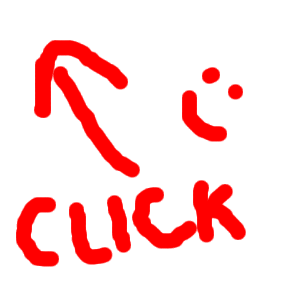
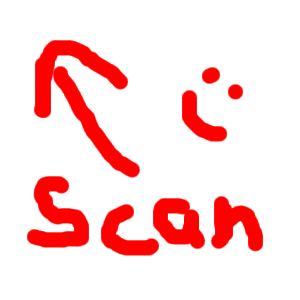
qronly

Changed region(s): [[0.03, 0.57, 0.9, 0.9]]

diff --git a/src/App.tsx b/src/App.tsx
@@ -460,28 +460,30 @@ eas build:configure`}</code>
                 Scan with any UPI App (GPay, PhonePe, Paytm) to support the project!
               </p>
 
-              <div className="bg-white p-4 rounded-2xl mb-6 shadow-inner">
-                <img 
-                  src="https://api.qrserver.com/v1/create-qr-code/?size=200x200&data=upi%3A%2F%2Fpay%3Fpa%3Dpaytm.s36o6vz%40pty%26pn%3DCleanTube%2520Developer%26cu%3DINR" 
-                  alt="UPI QR Code" 
-                  className="mx-auto rounded-lg w-[160px] h-[160px] sm:w-[200px] sm:h-[200px]" 
-                />
-              </div>
+              <div className="flex flex-col items-center relative w-full">
+                <div className="bg-white p-4 rounded-2xl mb-1 shadow-inner relative z-10">
+                  <img 
+                    src="https://api.qrserver.com/v1/create-qr-code/?size=200x200&data=upi%3A%2F%2Fpay%3Fpa%3Dpaytm.s36o6vz%40pty%26pn%3DCleanTube%2520Developer%26cu%3DINR" 
+                    alt="UPI QR Code" 
+                    className="mx-auto rounded-lg w-[160px] h-[160px] sm:w-[200px] sm:h-[200px]" 
+                  />
+                </div>
 
-              <div className="flex flex-col w-full items-center md:hidden">
-                <a 
-                  href="upi://pay?pa=paytm.s36o6vz@pty&pn=CleanTube%20Developer&mc=5499&mode=02&tn=CleanTube%20Donation&cu=INR"
-                  className="flex items-center justify-center gap-3 w-full bg-white text-black hover:bg-neutral-200 font-medium py-4 px-6 rounded-2xl transition-all duration-300 hover:-translate-y-1 relative z-10"
-                >
-                  📱 Open UPI App (Mobile Only)
-                </a>
                 {/* Click Here Arrow */}
-                <div className="w-20 h-20 pointer-events-none animate-bounce mt-4">
+                <div className="w-16 h-16 sm:w-20 sm:h-20 pointer-events-none animate-bounce -mt-3 relative z-20">
                   <img 
                     src="/clickhere.png" 
-                    alt="Click here" 
+                    alt="Scan here" 
                     className="w-full h-full object-contain -rotate-12"
                   />
+                </div>
+
+                {/* Tips for phone users */}
+                <div 
+                  className="mt-1 text-[13px] text-neutral-300 md:hidden leading-relaxed text-center px-2" 
+                  style={{ fontFamily: "'Comic Sans MS', 'Chalkboard SE', 'Comic Neue', cursive" }}
+                >
+                  *Tips: If on phone, take a screenshot, open your payment app, click on scan and upload the image from your gallery.
                 </div>
               </div>
             </div>
